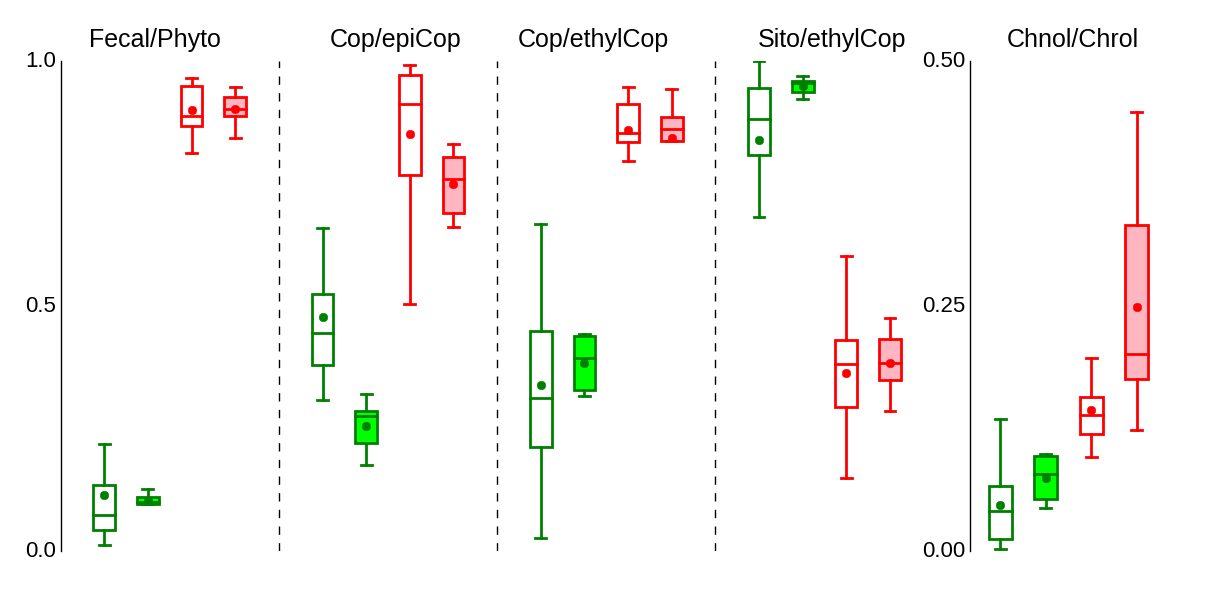
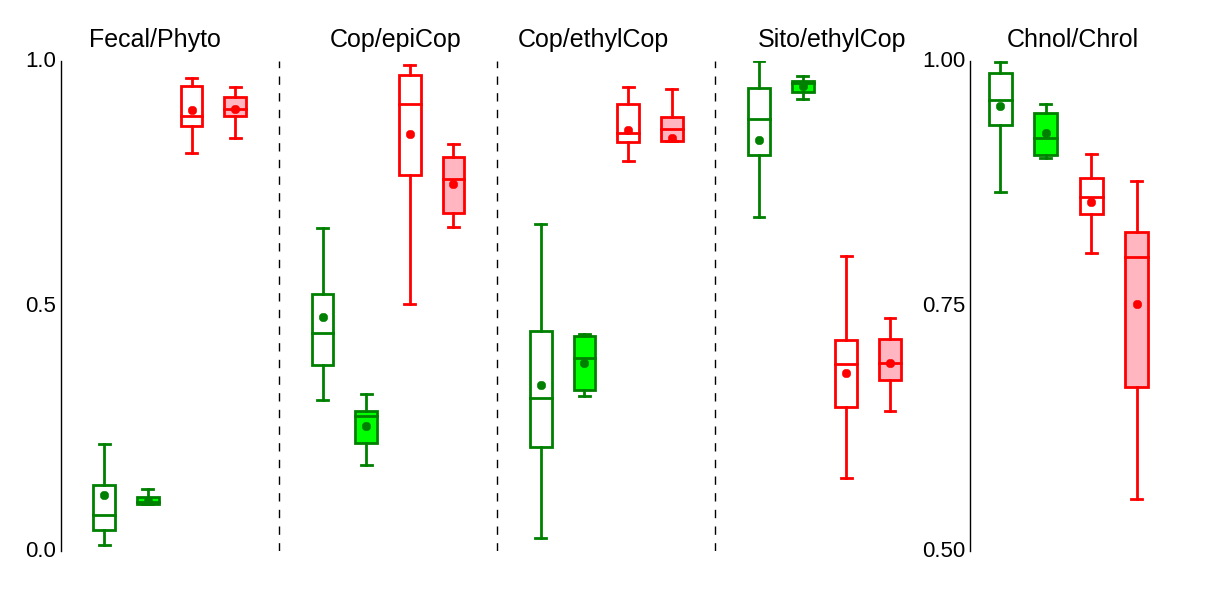
modifico graficos

diff --git a/AccEffa2.py b/AccEffa2.py
@@ -1,0 +1,82 @@
+#AccEff.py
+import matplotlib.pyplot as plt
+import numpy as np
+import pandas as pd
+import openpyxl
+
+# importo datos de excel y paso valores al array arnum
+libro = openpyxl.load_workbook('sedDegr.xlsx')
+ar = pd.read_excel('sedDegr.xlsx','Graph',header=0, index_col=None, na_values=['NA'])
+arnum=ar.values
+headers=list(ar)
+
+# creo el fondo de la figura
+fig=plt.figure(facecolor='white', figsize=(6,12))
+
+#histo efficiencies BA
+histo = fig.add_axes([0.15, 0.6, 0.7, 0.35])
+cols = np.arange(11) # ctdad de barras (= esteroles)
+wid = 0.4
+histo.bar(cols+0.2, arnum[2,2:13], 0.6, color = 'k', linewidth=2)
+csfont = {'fontname':'Liberation Sans'}
+histo.set_ylabel('Accumulation Efficiency (%)', size=18,**csfont)
+plt.ylim(0,50)
+plt.xlim(0,11)
+plt.yticks(np.arange(0,51,10), size = 14, **csfont)
+plt.axhline(y=arnum[2,13], xmin=0, xmax=1, hold=None, linestyle = '--', color = 'grey', lw = 2)
+histo.tick_params(length=0, which='both')
+histo.set_xticks(cols+0.5)
+histo.set_xticklabels(headers[2:13], rotation = 90, size=14,**csfont)
+plt.setp(histo.get_xticklabels(),visible=False)
+
+"""
+for i,j,k in zip(cols,arnum[8,2:13],arnum[4,2:13]):
+	histo.annotate((j),xy=(i+0.22,4), size =11, rotation=90)
+"""
+
+# creo flux plot
+hBA = histo.twinx()
+hBA.errorbar(cols+0.5,arnum[4,2:13],yerr=arnum[5,2:13],marker='o', markersize=8,markerfacecolor='silver',linestyle='none', lw=1.5,ecolor='silver')
+hBA.set_ylabel('Vertical flux (mg.$\mathregular{cm^{-2}.year^{-1}}$)', size=18,**csfont)
+plt.ylim(-50,200)
+plt.xlim(0,11)
+plt.yticks(np.arange(0,201,50), size = 14, **csfont)
+histo.tick_params(length=0, which='both')
+histo.set_xticks(cols+0.5)
+plt.setp(histo.get_xticklabels(),visible=False)
+
+# N
+
+#histo efficiencies N
+histo2 = fig.add_axes([0.15, 0.2, 0.7, 0.35])
+cols = np.arange(11) # ctdad de barras (= esteroles)
+wid = 0.4
+histo2.bar(cols+0.2, arnum[3,2:13], 0.6, color = 'w', linewidth=2)
+histo2.set_ylabel('Accumulation Efficiency (%)', size=18,**csfont)
+plt.xlim(0,11)
+plt.ylim(0,8)
+plt.yticks(np.arange(0,8.1,2), size = 14, **csfont)
+histo2.tick_params(length=0, which='both')
+histo2.set_xticks(cols+0.5)
+histo2.set_xticklabels(headers[2:13], rotation = 90, size=14,**csfont)
+plt.axhline(y=arnum[3,13], xmin=0, xmax=1, hold=None, linestyle = '--', color = 'k',lw = 2)
+
+'''
+# coloreo las ticklabels segun categoria
+labelcol = ['saddlebrown','saddlebrown','saddlebrown','saddlebrown','limegreen','limegreen','limegreen','limegreen','grey','dodgerblue','dodgerblue']
+[lab.set_color(i) for (i,lab) in zip(labelcol, histo2.xaxis.get_ticklabels())] 
+fontdict = dict(color='red',weight='heavy',**csfont)
+fontdictN2 = dict(color='g',weight='heavy',**csfont)
+'''
+
+# creo flux plot N
+hN = histo2.twinx()
+hN.errorbar(cols+0.5,arnum[6,2:13],yerr=arnum[7,2:13],marker='o', markersize=8,markerfacecolor='silver',linestyle='none', lw=1.5,ecolor='silver')
+hN.set_ylabel('Vertical flux (ug.$\mathregular{cm^{-2}.year^{-1}}$)', size=18,**csfont)
+plt.ylim(-40,90)
+plt.xlim(0,11)
+plt.yticks(np.arange(0,91,30), size = 14, **csfont)
+
+
+plt.show()
+

diff --git a/RatiosTS.py b/RatiosTS.py
@@ -92,8 +92,8 @@ box2.spines['right'].set_visible(False)
 box2.tick_params(length=0, which='both')
 box2.axes.get_xaxis().set_visible(False)
 # formateo ejes y ticks
-plt.ylim(0,0.5)
-plt.yticks(np.arange(0,0.51,0.25), size = 16, **csfont)
+plt.ylim(0.5,1)
+plt.yticks(np.arange(0.5,1.01,0.25), size = 16, **csfont)
 plt.xlim(0,1.2)
 
 # agrego titles
